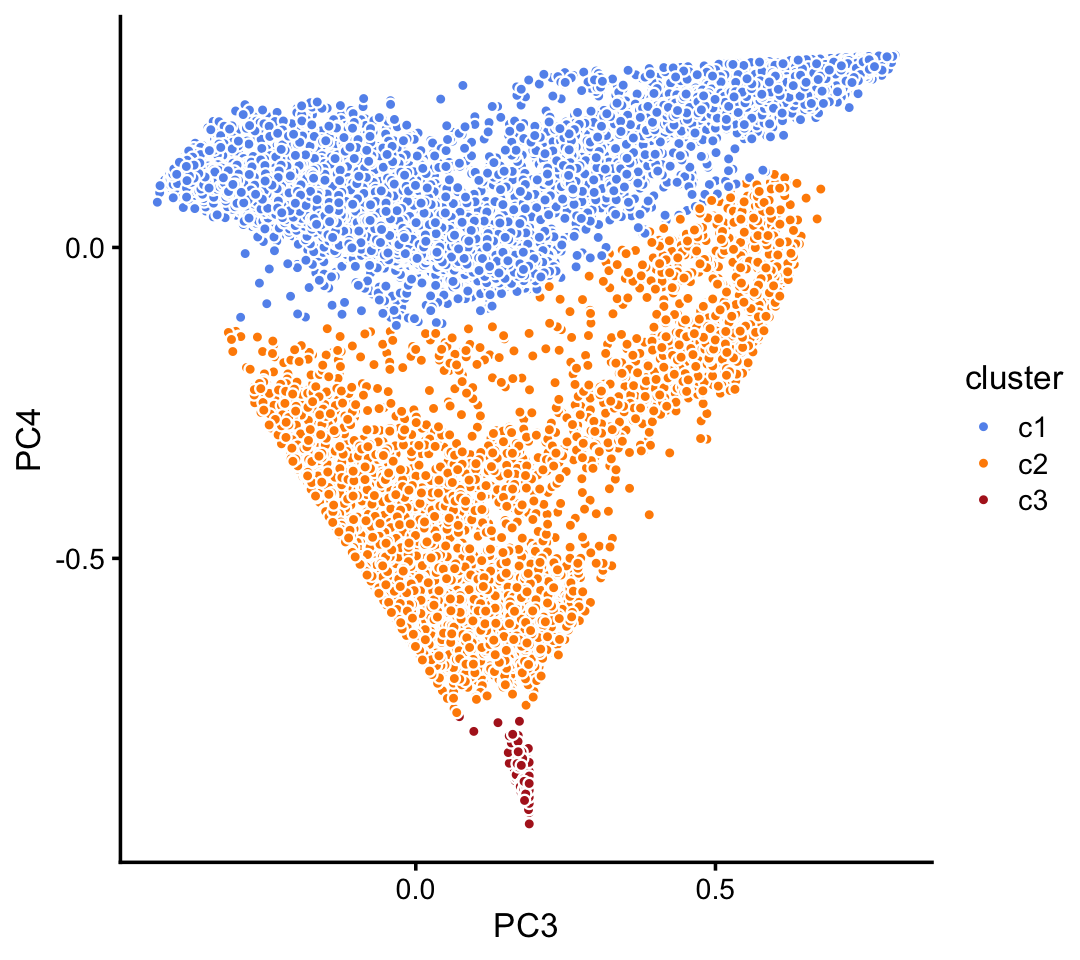
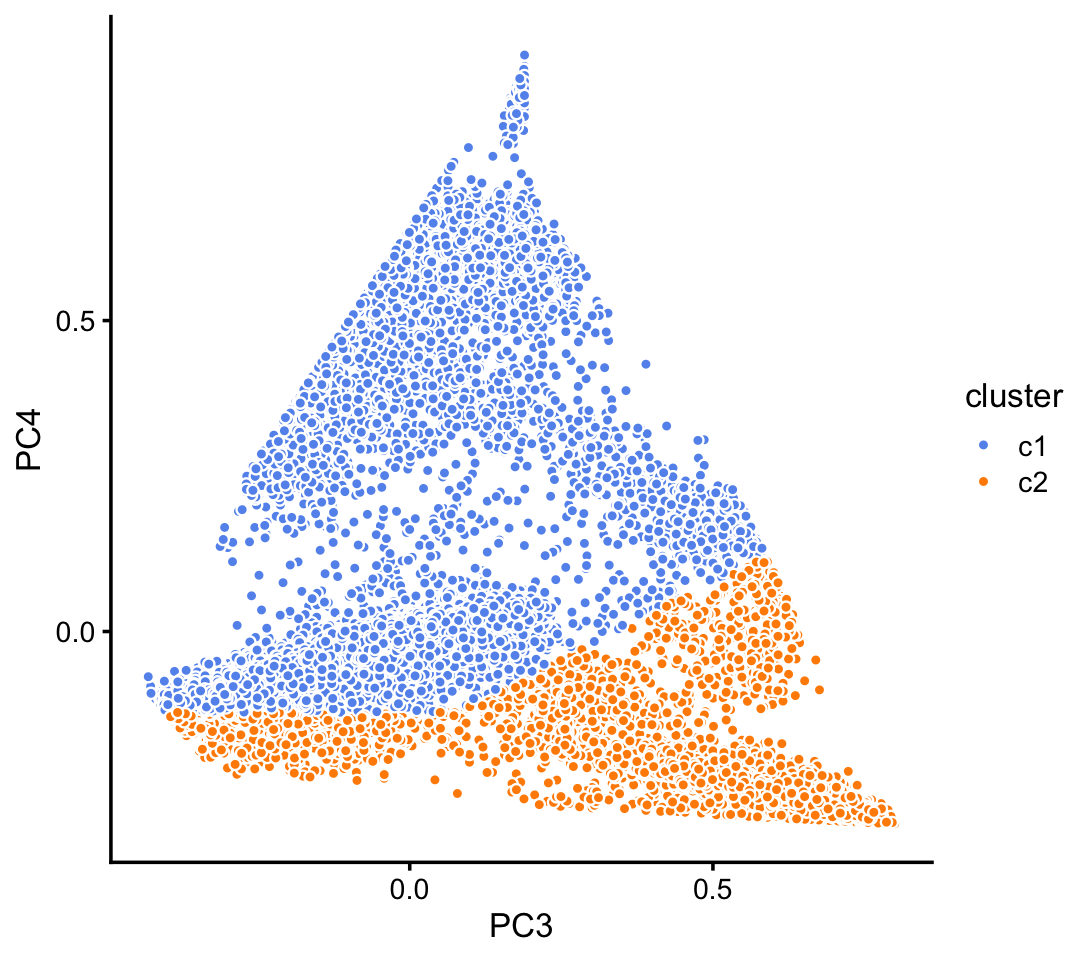
Re-built plots_pbmc webpage with structure plots.

diff --git a/docs/plots_pbmc.html b/docs/plots_pbmc.html
@@ -412,16 +412,16 @@ This reproducible <a href="http://rmarkdown.rstudio.com">R Markdown</a> analysis
 <div class="panel panel-default">
 <div class="panel-heading">
 <p class="panel-title">
-<a data-toggle="collapse" data-parent="#workflowr-checks" href="#strongRepositoryversionstrongahrefhttpsgithubcomstephenslabsinglecelltopicstree3a746ff564ce29d445936f93a4d70bdd202562f2targetblank3a746ffa"> <span class="glyphicon glyphicon-ok text-success" aria-hidden="true"></span> <strong>Repository version:</strong> <a href="https://github.com/stephenslab/single-cell-topics/tree/3a746ff564ce29d445936f93a4d70bdd202562f2" target="_blank">3a746ff</a> </a>
+<a data-toggle="collapse" data-parent="#workflowr-checks" href="#strongRepositoryversionstrongahrefhttpsgithubcomstephenslabsinglecelltopicstree98888b2fae10880621bb3efd89cc53901190ce81targetblank98888b2a"> <span class="glyphicon glyphicon-ok text-success" aria-hidden="true"></span> <strong>Repository version:</strong> <a href="https://github.com/stephenslab/single-cell-topics/tree/98888b2fae10880621bb3efd89cc53901190ce81" target="_blank">98888b2</a> </a>
 </p>
 </div>
[2 lines of base64/hex data omitted]
 <div class="panel-body">
 <p>
 Great! You are using Git for version control. Tracking code development and connecting the code version to the results is critical for reproducibility.
 </p>
 <p>
-The results in this page were generated with repository version <a href="https://github.com/stephenslab/single-cell-topics/tree/3a746ff564ce29d445936f93a4d70bdd202562f2" target="_blank">3a746ff</a>. See the <em>Past versions</em> tab to see a history of the changes made to the R Markdown and HTML files.
+The results in this page were generated with repository version <a href="https://github.com/stephenslab/single-cell-topics/tree/98888b2fae10880621bb3efd89cc53901190ce81" target="_blank">98888b2</a>. See the <em>Past versions</em> tab to see a history of the changes made to the R Markdown and HTML files.
 </p>
 <p>
 Note that you need to be careful to ensure that all relevant files for the analysis have been committed to Git prior to generating the results (you can use <code>wflow_publish</code> or <code>wflow_git_commit</code>). workflowr only checks the R Markdown file, but you know if there are other scripts or data files that it depends on. Below is the status of the Git repository when the results were generated:
@@ -478,6 +478,40 @@ Message
 </tr>
 </thead>
 <tbody>
+<tr>
+<td>
+Rmd
+</td>
+<td>
+<a href="https://github.com/stephenslab/single-cell-topics/blob/98888b2fae10880621bb3efd89cc53901190ce81/analysis/plots_pbmc.Rmd" target="_blank">98888b2</a>
+</td>
+<td>
+Peter Carbonetto
+</td>
+<td>
+2020-08-21
+</td>
+<td>
+Added structure plots to plots_pbmc.R.
+</td>
+</tr>
+<tr>
+<td>
+html
+</td>
+<td>
+<a href="https://rawcdn.githack.com/stephenslab/single-cell-topics/93109937d813d7c9cafacec2b45388af1d7c5e5a/docs/plots_pbmc.html" target="_blank">9310993</a>
+</td>
+<td>
+Peter Carbonetto
+</td>
+<td>
+2020-08-21
+</td>
+<td>
+Revised the PCA plots in pbmc_plots.
+</td>
+</tr>
 <tr>
 <td>
 Rmd
@@ -723,7 +757,7 @@ rm(genes,counts)</code></pre>
 <pre class="r"><code>fit_purified &lt;-
   readRDS(&quot;../output/pbmc-purified/rds/fit-pbmc-purified-scd-ex-k=6.rds&quot;)$fit
 fit_68k &lt;- readRDS(&quot;../output/pbmc-68k/rds/fit-pbmc-68k-scd-ex-k=6.rds&quot;)$fit
-cols      &lt;- c(1,6,5,3,4,2)
+cols      &lt;- c(4,1,5,3,6,2)
 fit_68k$F &lt;- fit_68k$F[,cols]
 fit_68k$L &lt;- fit_68k$L[,cols]
 colnames(fit_68k$F) &lt;- paste0(&quot;k&quot;,1:6)
@@ -844,8 +878,38 @@ Peter Carbonetto
 <p>The vast majority of the cells are in the first (blue) cluster:</p>
 <pre class="r"><code>table(samples_68k$cluster)
 # 
-#    c1    c2    c3 
-# 63432  4982   165</code></pre>
+#    c1    c2 
+# 63072  5507</code></pre>
+<p><strong>TO DO:</strong> Add text here.</p>
+<pre class="r"><code>set.seed(1)
+pbmc_purified_topics       &lt;- c(2,5,1,3,4,6)
+pbmc_purified_topic_colors &lt;- c(&quot;gold&quot;,&quot;forestgreen&quot;,&quot;dodgerblue&quot;,
+                                &quot;gray&quot;,&quot;greenyellow&quot;,&quot;magenta&quot;)
+rows &lt;- sort(c(sample(which(samples_purified$cluster == &quot;c1&quot;),1200),
+               sample(which(samples_purified$cluster == &quot;c2&quot;),600),
+               sample(which(samples_purified$cluster == &quot;c3&quot;),600)))
+fit2 &lt;- select(poisson2multinom(fit_purified),loadings = rows)
+p3 &lt;- structure_plot(fit2,grouping = samples_purified[rows,&quot;cluster&quot;],
+                     topics = pbmc_purified_topics,
+                     colors = pbmc_purified_topic_colors[pbmc_purified_topics],
+                     gap = 40,num_threads = 4,verbose = FALSE)
+print(p3)</code></pre>
+<p><img src="figure/plots_pbmc.Rmd/pbmc-purified-structure-plot-1.png" width="720" style="display: block; margin: auto;" /></p>
+<p><strong>TO DO:</strong> Add text here.</p>
+<pre class="r"><code>pbmc_68k_topics       &lt;- c(2,5,1,3,4,6)
+pbmc_68k_topic_colors &lt;- c(&quot;darkorange&quot;,&quot;olivedrab&quot;,&quot;dodgerblue&quot;,
+                           &quot;gray&quot;,&quot;royalblue&quot;,&quot;magenta&quot;)
+set.seed(1)
+rows &lt;- sort(c(sample(which(samples_68k$cluster == &quot;c1&quot;),1400),
+               sample(which(samples_68k$cluster == &quot;c2&quot;),500),
+               which(samples_68k$cluster == &quot;c3&quot;)))
+fit2 &lt;- select(poisson2multinom(fit_68k),loadings = rows)
+p4 &lt;- structure_plot(fit2,grouping = samples_68k[rows,&quot;cluster&quot;],
+                     topics = pbmc_68k_topics,
+                     colors = pbmc_68k_topic_colors[pbmc_68k_topics],
+                     gap = 40,num_threads = 4,verbose = FALSE)
+print(p4)</code></pre>
+<p><img src="figure/plots_pbmc.Rmd/pbmc-68k-structure-plot-1.png" width="720" style="display: block; margin: auto;" /></p>
 <p>Comparison to Zheng et al (2017) cell-type labeling of the FACS-purified PBMC data:</p>
 <pre class="r"><code>purified_celltype_colors &lt;-
   c(&quot;dodgerblue&quot;,  # CD19+ B
